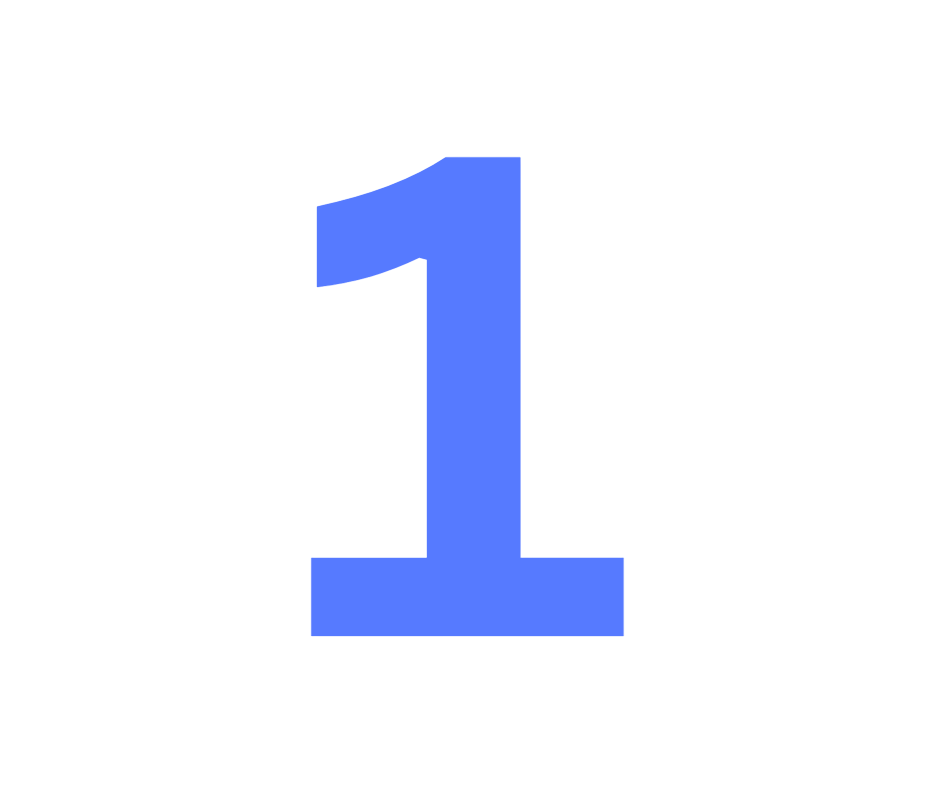
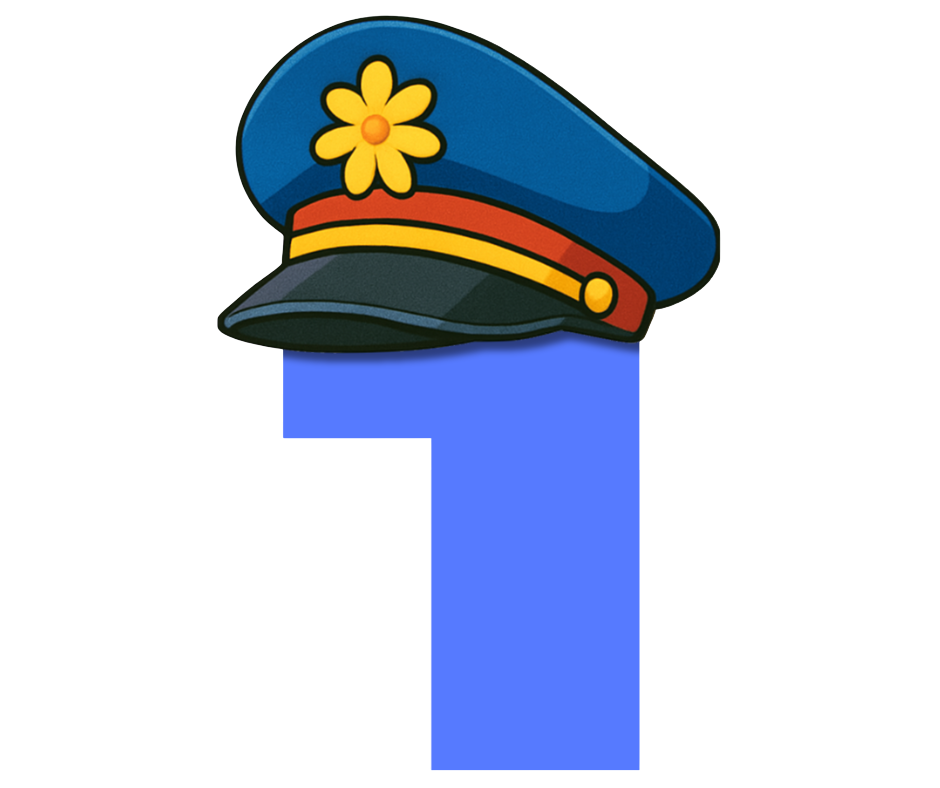
last commit before rank changes

Changed region(s): [[0.216, 0.0, 0.7713, 0.9746]]

diff --git a/src/app/users/components/AchievementNotification.tsx b/src/app/users/components/AchievementNotification.tsx
@@ -1,0 +1,249 @@
+import React, { useState, useEffect } from 'react';
+import Image from 'next/image';
+import { X } from 'lucide-react';
+
+// Achievement notification data structure
+interface Achievement {
+  id: string;
+  code: string;
+  name: string;
+  description: string;
+  icon?: string;
+  category: string;
+  xpReward: number;
+}
+
+interface AchievementNotificationProps {
+  achievement: Achievement;
+  onClose: () => void;
+}
+
+// Single notification component - Exact Duolingo layout
+const AchievementNotification: React.FC<AchievementNotificationProps> = ({ 
+  achievement, 
+  onClose 
+}) => {
+  const [isVisible, setIsVisible] = useState(false);
+
+  useEffect(() => {
+    // Slide in animation
+    setTimeout(() => setIsVisible(true), 100);
+
+    // Auto-close after 5 seconds
+    const timer = setTimeout(() => {
+      handleClose();
+    }, 5000);
+
+    return () => clearTimeout(timer);
+  }, []);
+
+  const handleClose = () => {
+    setIsVisible(false);
+    setTimeout(onClose, 300);
+  };
+
+  // Get number badge color based on category
+  const getBadgeColor = () => {
+    switch (achievement.category) {
+      case 'Profile':
+        return 'bg-red-500';
+      case 'Rank Promotions':
+        return 'bg-purple-500';
+      case 'Learning Badges':
+        return 'bg-green-500';
+      default:
+        return 'bg-orange-500';
+    }
+  };
+
+  return (
+    <>
+      {/* Overlay */}
+      <div 
+        className={`fixed inset-0 bg-black transition-opacity duration-300 z-[9998] ${
+          isVisible ? 'bg-opacity-50' : 'bg-opacity-0'
+        }`}
+        onClick={handleClose}
+      />
+
+      {/* Modal */}
+      <div
+        className={`fixed top-1/2 left-1/2 -translate-x-1/2 -translate-y-1/2 z-[9999] transform transition-all duration-300 ${
+          isVisible ? 'scale-100 opacity-100' : 'scale-95 opacity-0'
+        }`}
+        style={{ width: '90%', maxWidth: '600px' }}
+      >
+        <div className="bg-white rounded-2xl shadow-2xl overflow-hidden">
+          {/* Blue Header */}
+          <div className="bg-gradient-to-r from-blue-500 to-blue-600 px-6 py-4 relative">
+            <button
+              onClick={handleClose}
+              className="absolute top-4 right-4 text-white hover:bg-white hover:bg-opacity-20 rounded-full p-2 transition-colors"
+            >
+              <X className="w-6 h-6" />
+            </button>
+            <h2 className="text-white text-center text-xl font-bold tracking-wide uppercase">
+              New Achievement Unlock
+            </h2>
+          </div>
+
+          {/* Content - Image LEFT, Text RIGHT */}
+          <div className="p-8">
+            <div className="flex items-center gap-8">
+              {/* LEFT: Mascot Image with Badge - STATIC FROM PUBLIC FOLDER */}
+              <div className="flex-shrink-0">
+                <div className="w-56 h-56 flex items-center justify-center">
+                  {/* 
+                    This is your STATIC mascot image with badge already included
+                    Replace with your actual image path like:
+                    /images/mascot-achievement.png
+                    /images/police-mascot-badge.png
+                  */}
+                  <img 
+                    src="/images/achievement-mascot.png"
+                    alt="Achievement Mascot"
+                    className="w-full h-full object-contain"
+                    onError={(e) => {
+                      // Fallback: Show demo image if your file doesn't exist yet
+                      const target = e.target as HTMLImageElement;
+                      target.src = "https://images.unsplash.com/photo-1614680376573-df3480f0c6ff?w=250&h=250&fit=crop";
+                    }}
+                  />
+                </div>
+              </div>
+
+              {/* RIGHT: Text Content */}
+              <div className="flex-1 text-left">
+                {/* Achievement Name */}
+                <h3 className="text-4xl font-bold text-gray-900 mb-3 leading-tight">
+                  {achievement.name}
+                </h3>
+
+                {/* Achievement Description */}
+                <p className="text-gray-500 text-xl mb-6 leading-relaxed">
+                  {achievement.description}
+                </p>
+
+                {/* XP Reward */}
+                {achievement.xpReward > 0 && (
+                  <div className="inline-block bg-gradient-to-r from-blue-400 to-blue-500 text-white px-6 py-2 rounded-full text-2xl font-bold shadow-md">
+                    +{achievement.xpReward} XP
+                  </div>
+                )}
+              </div>
+            </div>
+          </div>
+        </div>
+      </div>
+    </>
+  );
+};
+
+// Queue manager for multiple notifications
+const AchievementNotificationManager: React.FC = () => {
+  const [notifications, setNotifications] = useState<Achievement[]>([]);
+  const [currentNotification, setCurrentNotification] = useState<Achievement | null>(null);
+
+  // Simulate achievements
+  const simulateAchievement = (type: 'profile' | 'badge' | 'rank') => {
+    const mockAchievements = {
+      profile: {
+        id: '1',
+        code: 'identity-established',
+        name: 'Identity Established',
+        description: 'Set your username',
+        icon: '/achievements/identity-established.png',
+        category: 'Profile',
+        xpReward: 100,
+      },
+      badge: {
+        id: '2',
+        code: 'learning-starter',
+        name: 'Learning Starter',
+        description: 'Earn your first learning badge',
+        icon: '/achievements/learning-starter.png',
+        category: 'Learning Badges',
+        xpReward: 0,
+      },
+      rank: {
+        id: '3',
+        code: 'rank-pcpl',
+        name: 'Police Corporal',
+        description: 'Reach Police Corporal rank',
+        icon: '/ranks/PCpl.png',
+        category: 'Rank Promotions',
+        xpReward: 100,
+      },
+    };
+
+    const newAchievement = mockAchievements[type];
+    setNotifications(prev => [...prev, newAchievement]);
+  };
+
+  // Show notifications one at a time
+  useEffect(() => {
+    if (!currentNotification && notifications.length > 0) {
+      setCurrentNotification(notifications[0]);
+    }
+  }, [notifications, currentNotification]);
+
+  const handleClose = () => {
+    setNotifications(prev => prev.slice(1));
+    setCurrentNotification(null);
+  };
+
+  return (
+    <div className="min-h-screen bg-gradient-to-br from-gray-50 to-gray-100 p-8">
+      <div className="max-w-4xl mx-auto">
+        <h1 className="text-3xl font-bold text-gray-800 mb-8">Achievement Notification Demo</h1>
+        
+        {/* Demo Buttons */}
+        <div className="bg-white rounded-2xl p-6 shadow-sm mb-8">
+          <h2 className="text-xl font-semibold text-gray-700 mb-4">Trigger Achievements:</h2>
+          <div className="flex flex-wrap gap-4">
+            <button
+              onClick={() => simulateAchievement('profile')}
+              className="bg-blue-500 hover:bg-blue-600 text-white px-6 py-3 rounded-xl font-semibold transition-colors shadow-md"
+            >
+              Profile Achievement
+            </button>
+            <button
+              onClick={() => simulateAchievement('badge')}
+              className="bg-green-500 hover:bg-green-600 text-white px-6 py-3 rounded-xl font-semibold transition-colors shadow-md"
+            >
+              Badge Achievement
+            </button>
+            <button
+              onClick={() => simulateAchievement('rank')}
+              className="bg-purple-500 hover:bg-purple-600 text-white px-6 py-3 rounded-xl font-semibold transition-colors shadow-md"
+            >
+              Rank Achievement
+            </button>
+          </div>
+        </div>
+
+        {/* Instructions */}
+        <div className="bg-white rounded-2xl p-6 shadow-sm">
+          <h2 className="text-xl font-semibold text-gray-700 mb-4">Layout:</h2>
+          <ul className="list-disc list-inside space-y-2 text-gray-600">
+            <li>✅ Image on LEFT side (mascot)</li>
+            <li>✅ Text on RIGHT side (achievement details)</li>
+            <li>✅ Number badge (1) attached to mascot image</li>
+            <li>✅ XP shown below description</li>
+            <li>✅ Exact Duolingo-style layout</li>
+          </ul>
+        </div>
+      </div>
+
+      {/* Render current notification */}
+      {currentNotification && (
+        <AchievementNotification
+          achievement={currentNotification}
+          onClose={handleClose}
+        />
+      )}
+    </div>
+  );
+};
+
+export default AchievementNotificationManager;

diff --git a/src/app/users/components/Achievement.tsx b/src/app/users/components/Achievement.tsx
@@ -147,7 +147,7 @@ const AchievementsUI = () => {
                 <div className="flex-shrink-0">
                   <div className="w-10 h-10 rounded-lg overflow-hidden">
                     <Image
-                      src={achievement.isUnlocked ? "/unlocked-badge.png" : "/locked-badge.png"}
+                      src={achievement.isUnlocked ? "/achievements/unlocked.png" : "/achievements/unlocked.png"}
                       alt={achievement.isUnlocked ? "Unlocked" : "Locked"}
                       width={40}
                       height={40}
